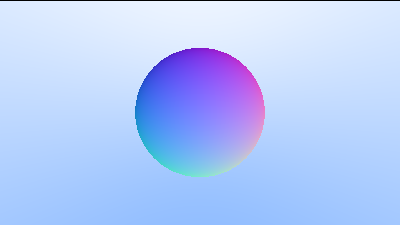
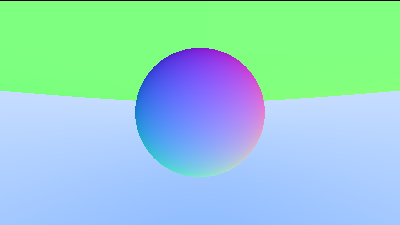
Everything is upside down

diff --git a/src/main.rs b/src/main.rs
@@ -1,3 +1,5 @@
+use std::f32::INFINITY;
+
 use image::{Rgb, RgbImage};
 mod ray_vector;
 use ray_vector::Vec3;
@@ -8,29 +10,16 @@ use hit_record::{HitRecord, Hittable, HittableList};
 mod sphere;
 use sphere::Sphere;
 
-fn ray_color(ray: &mut Ray) -> Vec3 {
-    let t = hit_sphere(&Vec3::new(0.0, 0.0, -1.0), 0.5, ray);
-    if t > 0.0 {
-        let N = (ray.point_at_parameter(t) - Vec3::new(0.0, 0.0, -1.0)).make_unit_vector();
-        return 0.5 * Vec3::new(N.x() + 1.0, N.y() + 1.0, N.z() + 1.0);
+fn ray_color(ray: &mut Ray, world: &Hittable) -> Vec3 {
+    let rec =  &mut HitRecord::new(0.0,Vec3::new(0.0,0.0,0.0), Vec3::new(0.0,0.0,0.0));
+    if world.intersect(ray,0.0,INFINITY,rec) {
+        return 0.5*(rec.normal + Vec3::new(1.0, 1.0, 1.0));
     }
-    let unit_direction: Vec3 = ray.direction().make_unit_vector();
-    let t: f32 = 0.5 * (unit_direction.y() + 1.0);
-    let vecern = (1.0 - t) * Vec3::new(1.0, 1.0, 1.0) + t * Vec3::new(0.5, 0.7, 1.0);
-    return vecern;
-}
+    let unit_direction = ray.direction().make_unit_vector();
+    let t = 0.5*(unit_direction.y() + 1.0);
 
-fn hit_sphere(center: &Vec3, radius: f32, r: &Ray) -> f32 {
-    let oc = r.origin() - *center;
-    let a = r.direction().dot(&r.direction());
-    let b = 2.0 * oc.dot(&r.direction());
-    let c = oc.dot(&oc) - radius * radius;
-    let discriminant = b * b - 4.0 * a * c;
-    if discriminant < 0.0 {
-        return -1.0;
-    } else {
-        return (-b - discriminant.sqrt()) / (2.0 * a);
-    }
+    return (1.0-t)*Vec3::new(1.0,1.0,1.0)+t*Vec3::new(0.5,0.7,1.0);
+    
 }
 
 fn main() {
@@ -76,7 +65,7 @@ fn main() {
                 origin,
                 lower_left_corner + u * horizontal + v * vertical - origin,
             );
-            color = ray_color(&mut ray);
+            color = ray_color(&mut ray, &world);
 
             img.put_pixel(x as u32, y as u32, Rgb(color.to_color_vec()));
             x += 1.0;
